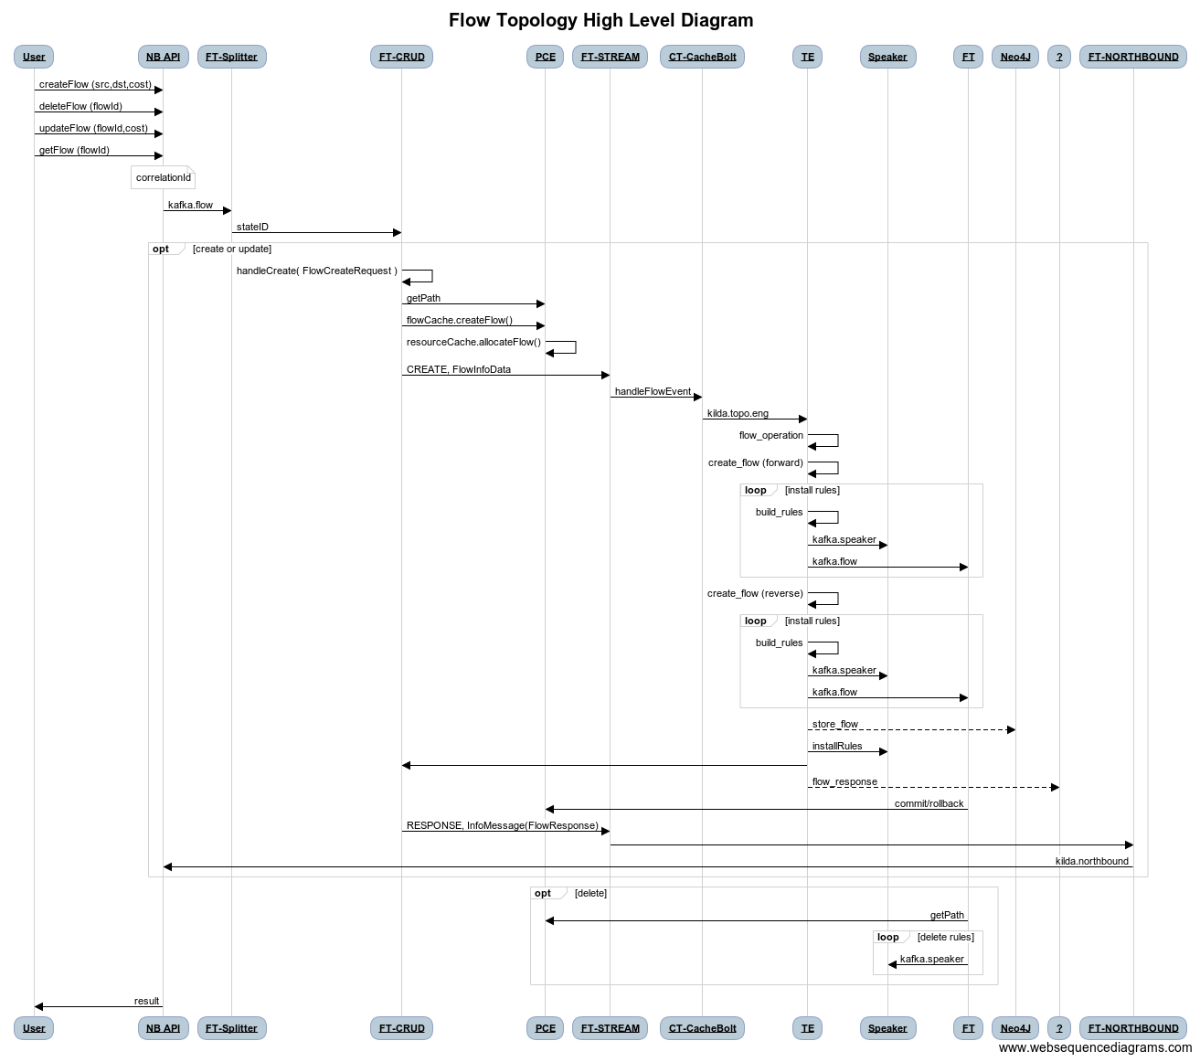
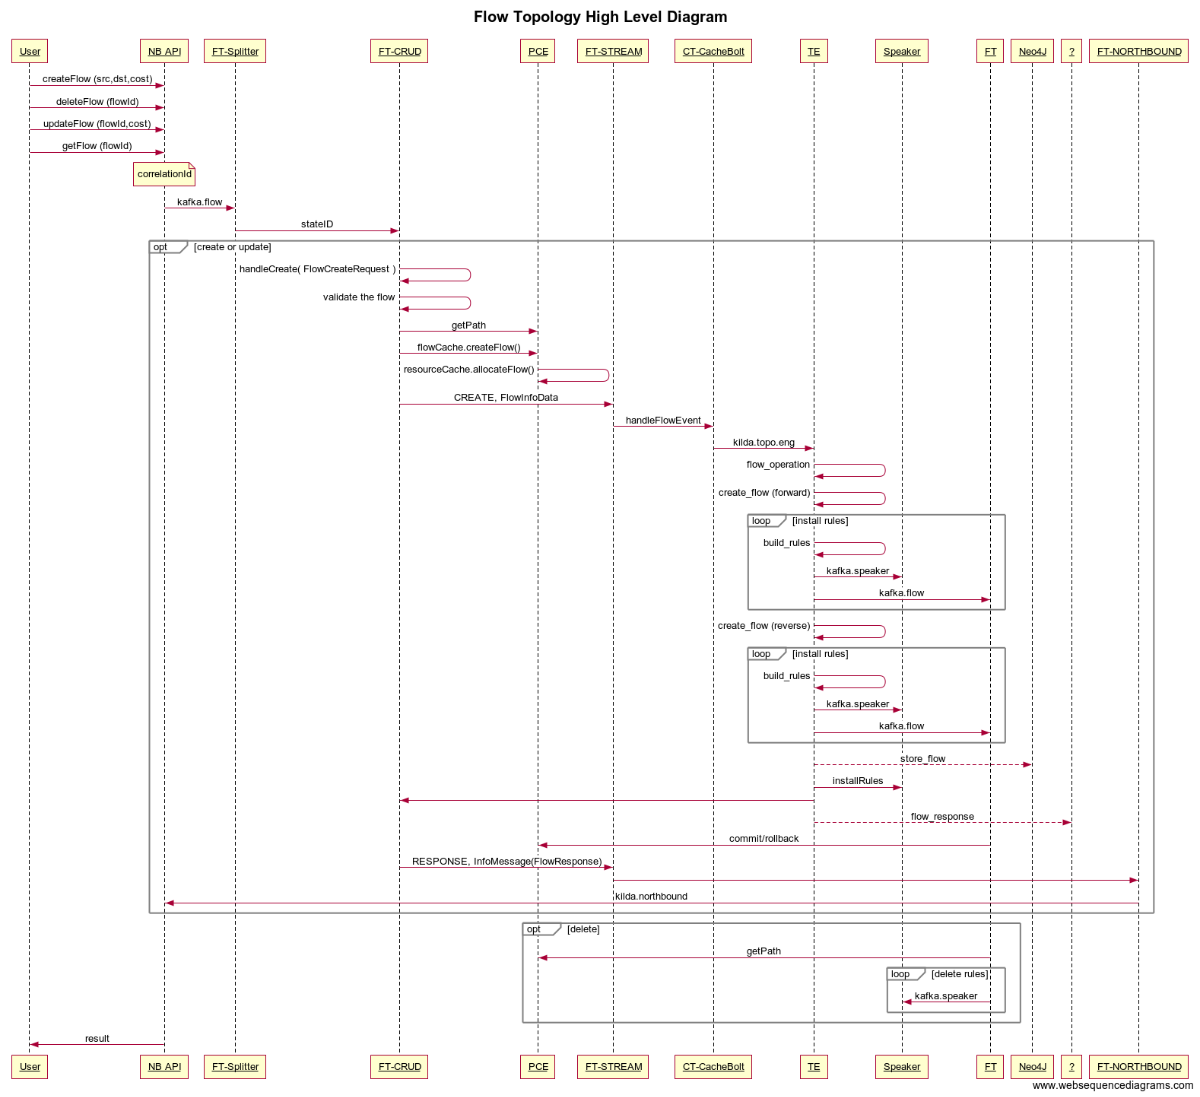
Update the Flow CRUD and Topology diagrams with the flow validation changes.

diff --git a/docs/design/usecase/flow-topology-high-level.md b/docs/design/usecase/flow-topology-high-level.md
@@ -30,6 +30,7 @@ NB API->FT-Splitter: kafka.flow
 FT-Splitter->FT-CRUD: stateID
 opt create or update
     FT-CRUD->FT-CRUD: handleCreate( FlowCreateRequest )
+    FT-CRUD->FT-CRUD: validate the flow
     FT-CRUD->PCE: getPath
     FT-CRUD->PCE: flowCache.createFlow()
     PCE->PCE: resourceCache.allocateFlow()
@@ -65,4 +66,4 @@ opt delete
     end
 end
 NB API->User: result
-### 
+```
